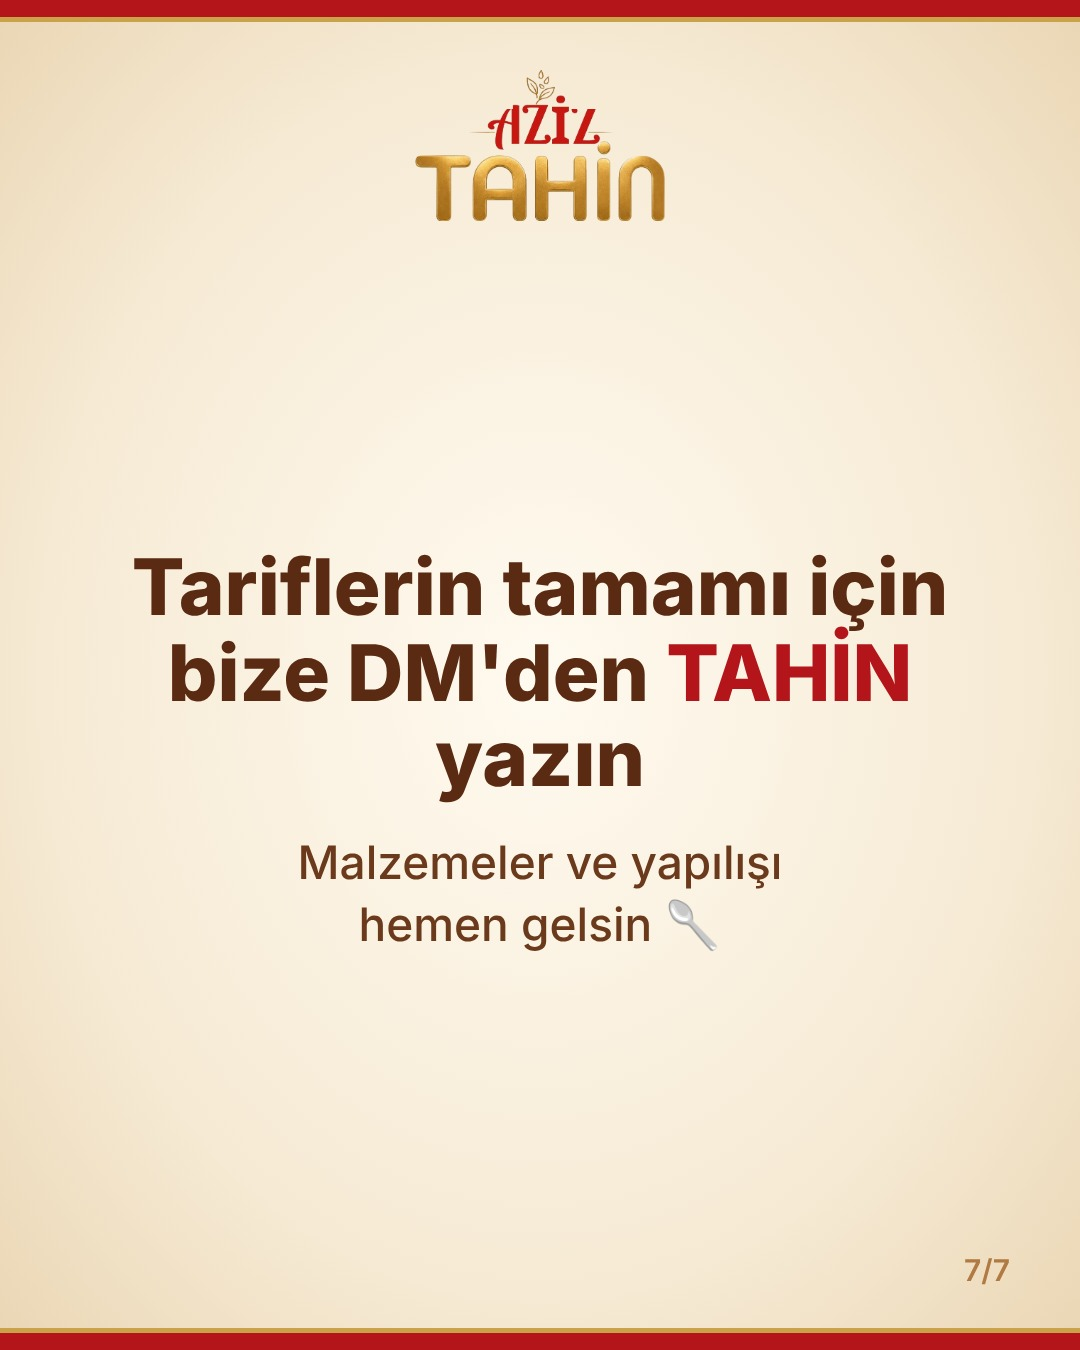
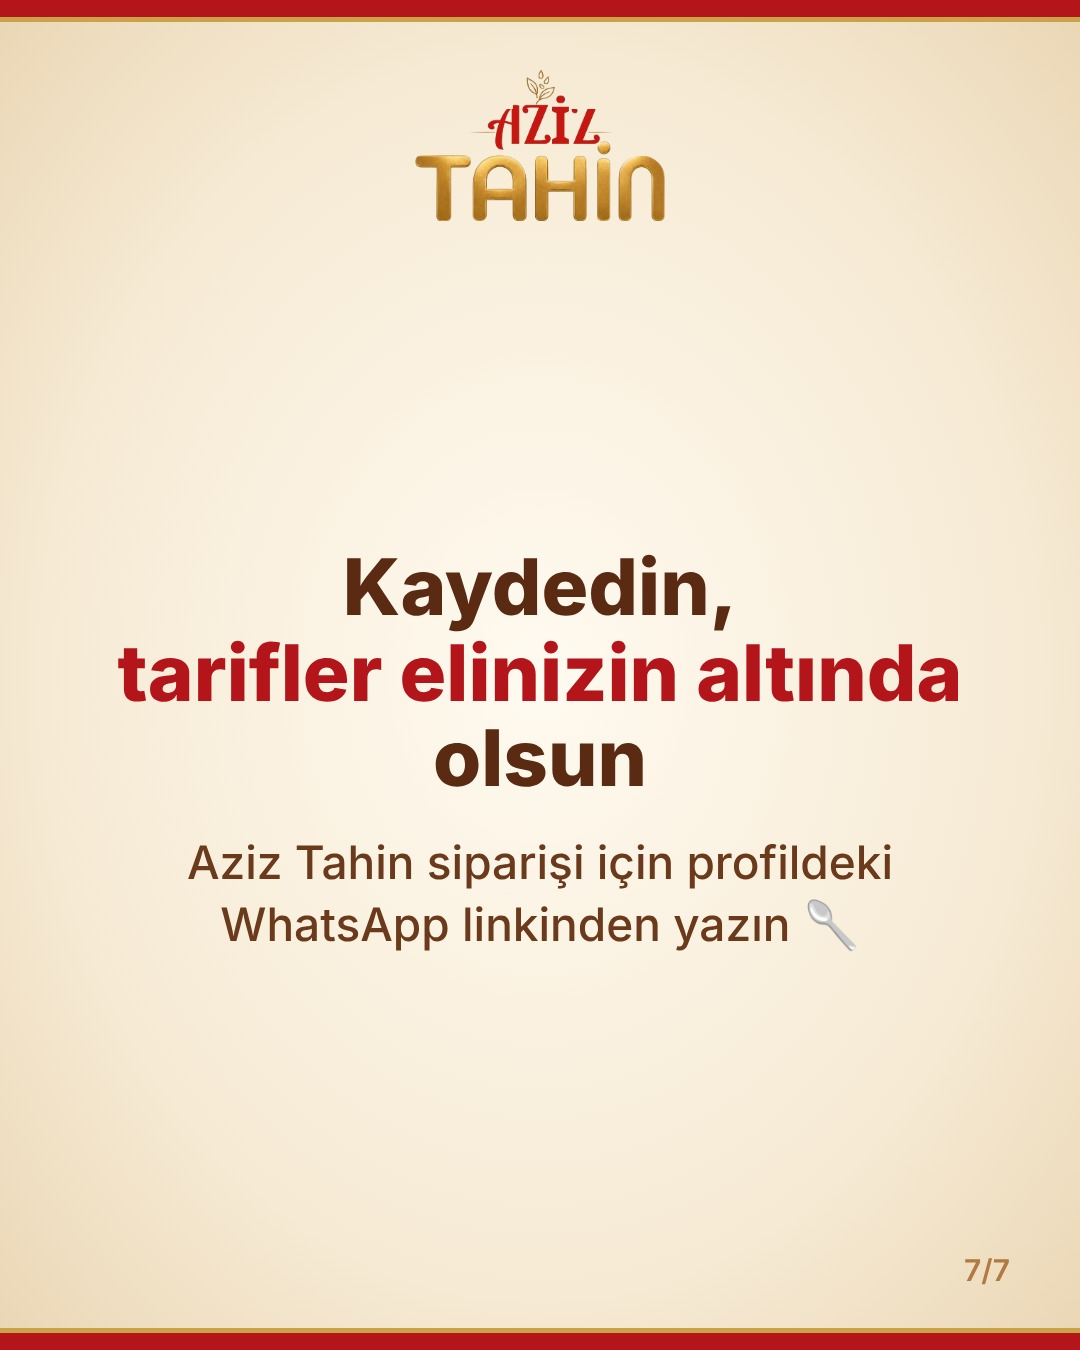
TAHİN anahtar kelime çağrıları kaldırıldı; WhatsApp sipariş ve kaydet çağrısı
Claude-Session: https://claude.ai/code/session_01LbgBc4wPXWRgFMDuR8TYQV

Changed region(s): [[0.0917, 0.4044, 0.8861, 0.5911], [0.1833, 0.6222, 0.825, 0.7156], [0.7639, 0.6844, 0.7944, 0.7156]]

diff --git a/.claude/instagram/voice.md b/.claude/instagram/voice.md
@@ -69,9 +69,9 @@ Bu açıklamalarda eksik olanlar (bundan sonra yapılmayacak):
 
 ## Satış dili
 
-- Her içerik tek bir somut çağrıyla biter: ya "Yorumlara TAHİN yazın" ya da
-  "Sipariş için profildeki WhatsApp linkinden yazın". İkisi aynı anda
-  kullanılmaz.
+- Her içerik tek bir somut çağrıyla biter: "Sipariş için profildeki WhatsApp
+  linkinden yazın". Tarif içeriklerinde bunun yerine "Kaydedin" denebilir.
+  "TAHİN yazın" gibi anahtar kelime çağrıları kullanılmaz (otomasyon kapalı).
 - İlk cümle ürünü değil, izleyicinin durumunu anlatır: bir soru, bir yanlış
   bilinen ya da bir sofra anı. Ürün ikinci cümlede gelir.
 - Özellik değil, kazanç söylenir: "27 g protein" tek başına kalmaz, "kahvaltıda
@@ -98,7 +98,7 @@ sipariş verdirmektir.
   müşterimiz tekrar alıyor", "Türkiye'nin her iline gönderim").
 - **Son slayt:** Tek ve net sipariş çağrısı: "Sipariş için profildeki
   WhatsApp linkinden yazın." Siparişin kolay olduğu hatırlatılır.
-  Yorum anahtar kelimesi (TAHİN) yalnızca tarif içerikli carousel'lerde.
+  Anahtar kelime çağrısı (TAHİN) kullanılmaz.
 - **Açıklama:** İlk satır merak açar ve "... devamı" kesiminden önce biter;
   sonda aynı sipariş çağrısı, 3 hashtag.
 - Haftada en az 2 carousel doğrudan sipariş çağrısıyla biter.
@@ -157,13 +157,9 @@ asla uydurmaz.
 
 ## Çağrı (CTA)
 
-- **Anahtar kelime CTA'sı:** "Yorumlara TAHİN yazın". Meta Business Suite'teki
-  "Yorumdan mesaja" otomasyonu (Tahin, TAHİN, tahin, Tahın, TAHIN, tahın)
-  yorumun altına "DM'den yazdık 🤎" yazar ve kişiye otomatik DM gönderir.
-- **Anahtar kelime ne gönderir:** 5 tarifin web sayfasının linki
-  (https://tay1an.github.io/instagram-agent-skill/tarifler.html) ve sipariş
-  çağrısı. (İndirim ya da hediye verilmez. Otomatik DM'de görsel gitmediği için
-  link kullanılır.)
+- **Anahtar kelime CTA'sı:** Yok. Yoruma ya da DM'e "TAHİN" yazdırıp tarif
+  gönderme otomasyonu kapatıldı; içerikler bunu istemez. Tarifler günlük
+  hikâyelerde paylaşılır.
 - **Linkim nereye gider:** Profilde birden fazla link var:
   - Trendyol satış sayfası
   - Dükkanın konumu
